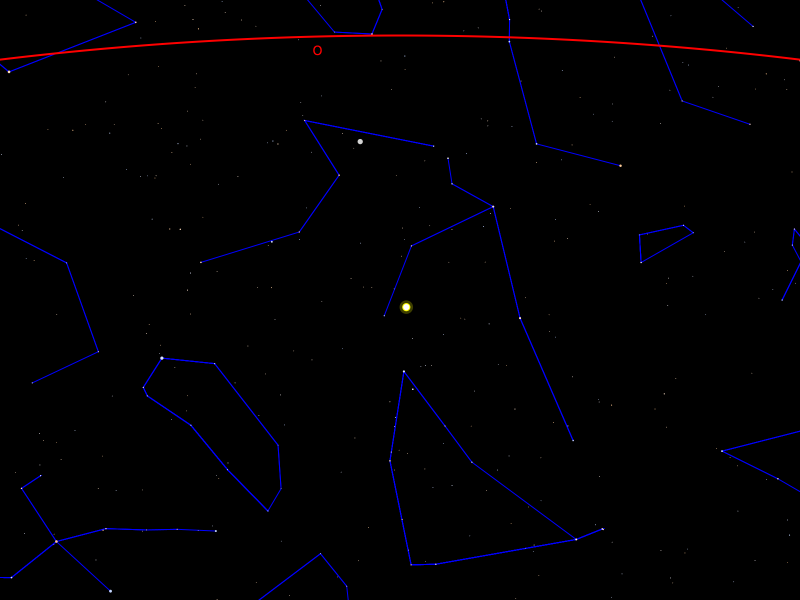
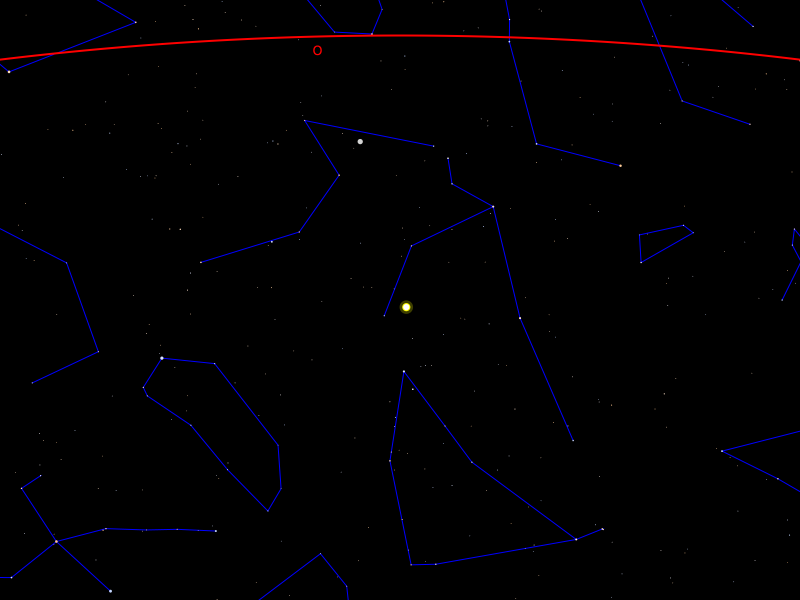
étape 9 améliorations

diff --git a/src/ch/epfl/rigel/gui/SkyCanvasPainter.java b/src/ch/epfl/rigel/gui/SkyCanvasPainter.java
@@ -52,6 +52,8 @@ public final class SkyCanvasPainter {
         Asterism[] asterisms = sky.asterism().toArray(Asterism[]::new);
         boolean previousInBounds = false;
         Bounds canvasBounds = canvas.getBoundsInLocal();
+
+        //Construction des astérisms
         for (Asterism a : asterisms) {
             ctx.beginPath();
             int[] indices = sky.asterismIndices(a).stream()
@@ -60,13 +62,17 @@ public final class SkyCanvasPainter {
             for (Integer i : indices) {
                 double x = coordinates[2*i];
                 double y = coordinates[2*i + 1];
-                ctx.lineTo(x, y);
                 if (canvasBounds.contains(x, y) || previousInBounds) {
-                    ctx.stroke();
+                    ctx.lineTo(x,y);
+                } else {
+                    ctx.moveTo(x,y);
                 }
                 previousInBounds = (canvasBounds.contains(x, y));
             }
+            ctx.stroke();
         }
+
+        //Construction des étoiles
         for (int i=0; i<stars.length; ++i) {
             double diameter = size(stars[i].magnitude(), projection);
             double trueDiameter = planeToCanvas.deltaTransform(diameter, 0).magnitude();
